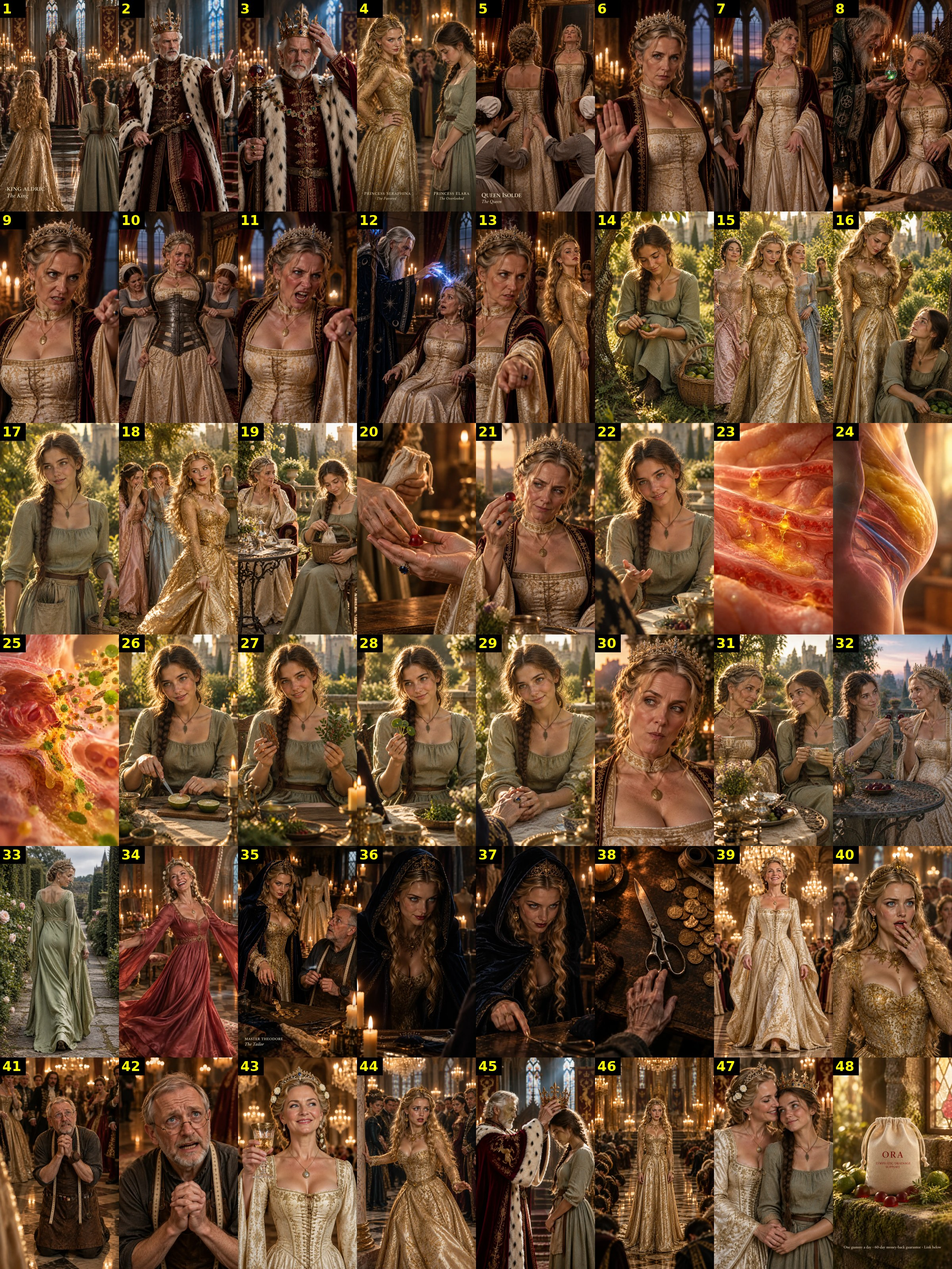
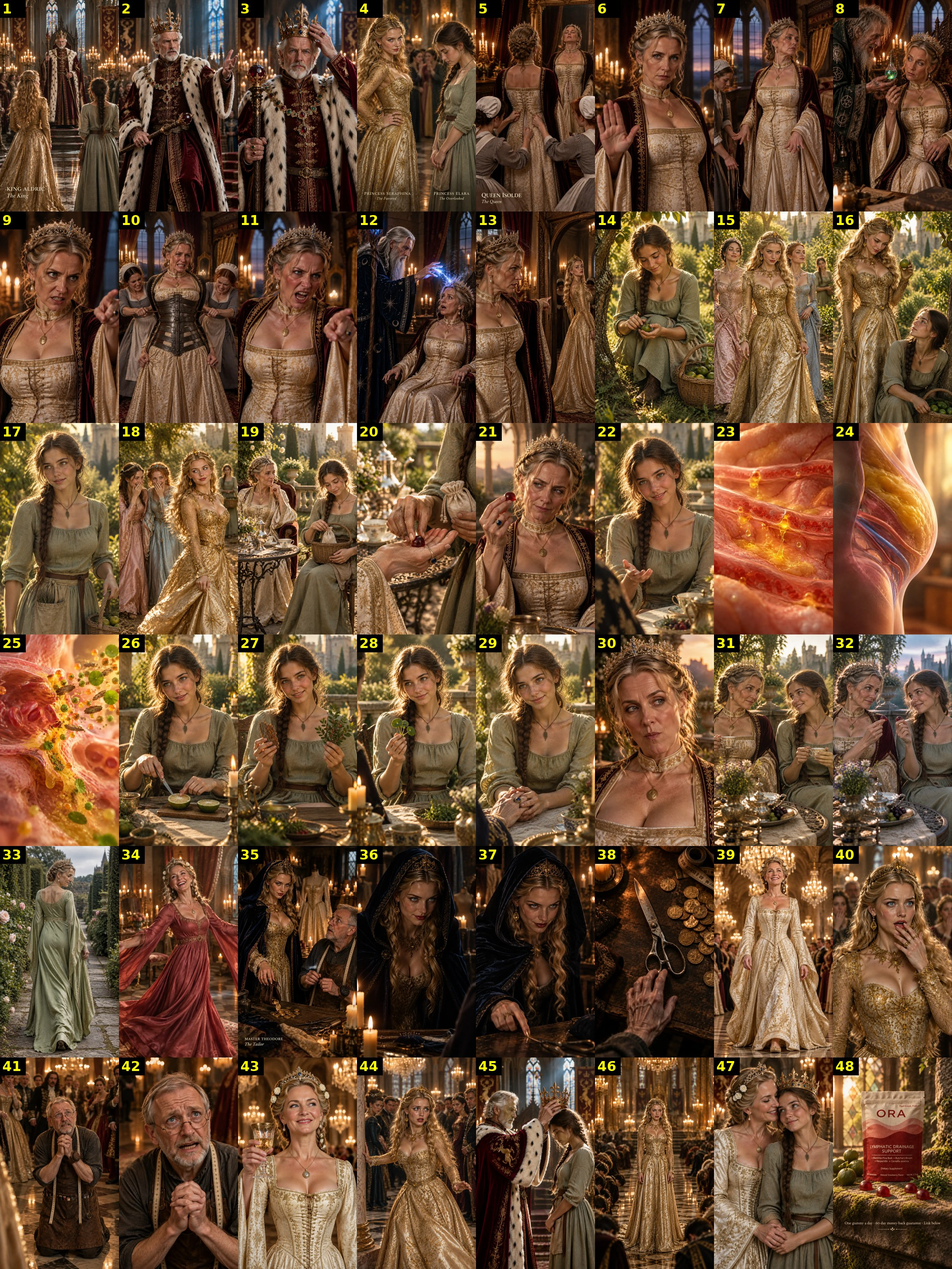
ORA Princess Elara: redo frames 13, 20, 32, 48; mirror 30
Claude-Session: https://claude.ai/code/session_01B91YnQnevLKqPhwBUBVUWL

diff --git a/projects/ora-princess-elara/shots.md b/projects/ora-princess-elara/shots.md
@@ -14,14 +14,14 @@
 | 10 | 5db221aa-0986-4ac9-a5eb-97328dfe1c2b |
 | 11 | 21ce56c1-957e-4b0a-b528-b37b32a91d0b |
 | 12 | da0bcb45-e876-49a1-9d96-7904a319c3e9 |
-| 13 | fd4b20d2-27b7-41e4-9c04-75eeef7d64d7 |
+| 13 | a29f1c11-92cc-42ef-a351-e11c251c7713 (redo: one shot, points at door) |
 | 14 | 0f2b6d6c-bc3b-407f-ba4f-75f8059a373a |
 | 15 | bc20085b-ff8c-4ae9-baa8-27c33618c3b4 |
 | 16 | 11248bea-a15f-4b99-9a10-d76ba267f422 |
 | 17 | ab4b0724-595c-4f63-b111-0a4344a2775a |
 | 18 | ab2245f3-b4de-49b3-bbb9-f6522d0b5cca |
 | 19 | e8f18e9d-acc4-4150-b82b-6d6dc042891e |
-| 20 | a6f742d6-1e50-4211-a72e-5828531c3c07 |
+| 20 | fdcb03b2-4f7f-441b-baca-64e8e0f95fdc (redo: same terrace as 19) |
 | 21 | fcf6e3e0-22c4-493d-b429-d96149404784 |
 | 22 | ce47ce6e-90e0-4542-9c16-773322a78348 |
 | 23 | 92e3a127-209f-4314-91bb-aee70689617b |
@@ -31,9 +31,9 @@
 | 27 | 4b4b46b6-b8c4-4856-9660-014b778e93e0 |
 | 28 | 8e8ca217-bb36-424a-acf9-9ce16009d8b5 |
 | 29 | bfa419b9-f39c-4da7-b230-8a2d110ed9c8 |
-| 30 | 990aed1b-f5a9-4add-b30a-c926e0913d3e |
+| 30 | 518d1dc3-57af-407f-ac5c-f547dbe31a7d (uploaded mirror of 990aed1b) |
 | 31 | cea5dd0b-a0c8-4b48-87b0-977393143ef6 |
-| 32 | 768fd7fc-08b6-4b2c-b93a-ede83a286561 |
+| 32 | 91b63006-4f29-45b7-8016-f74fc0cfcd68 (redo: Queen left, both hold gummy) |
 | 33 | 3ed6e260-2159-421c-a614-bcd4b515e5b7 |
 | 34 | 6807faa1-2ef3-4753-9ccb-733cce953fa4 |
 | 35 | d0524242-4171-4b3c-8f33-5d33e92c448e |
@@ -49,4 +49,4 @@
 | 45 | f4681e16-a2ef-47eb-a3c4-d021417a47ab |
 | 46 | ecd56030-806d-4ea6-a9a9-6b38b10f2b8c |
 | 47 | 7adcec88-463e-4ed9-b4e5-8373d0da63d8 |
-| 48 | 80e370f2-6b8b-4e69-81f4-063bb6d07027 |
+| 48 | df39e356-6863-4ff3-8db0-7618232373cf (redo: real ORA pouch) |
